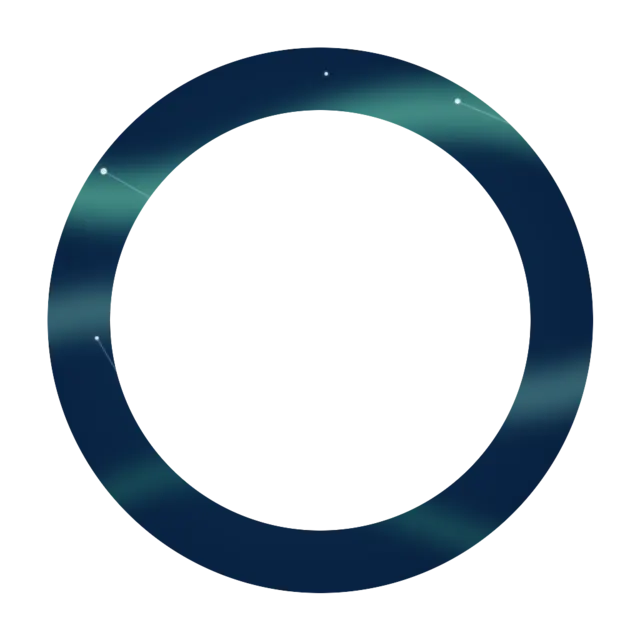
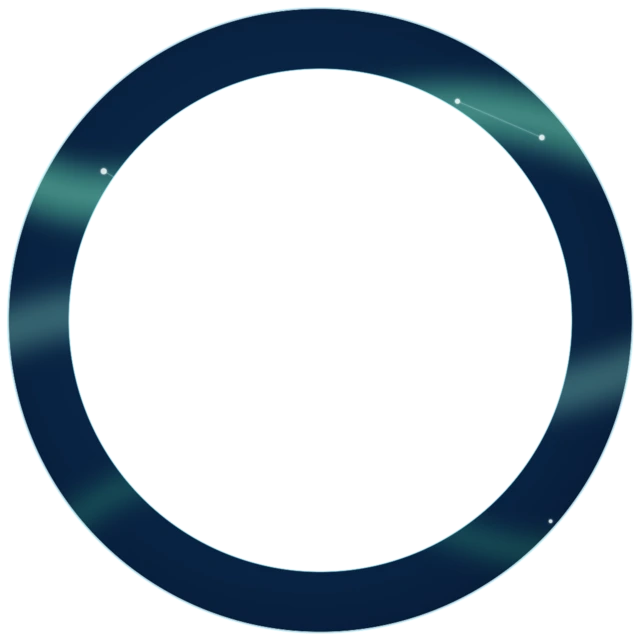
Add files via upload

diff --git a/src/styles.css b/src/styles.css
@@ -5767,3 +5767,22 @@ body.admin-page,.admin-page .app-shell{height:auto;min-height:100%;overflow:visi
 }
 .aurora-ring.locked img{filter:saturate(.96) contrast(1.06) brightness(.95) hue-rotate(2deg);}
 .aurora-ring.locked::before{opacity:.04;}
+
+/* Pass 7.22.0 — Aurora Apex ring scale + visibility correction */
+/* Keep all three designed rings legible from the opening state. Active is highlighted;
+   upcoming rings are not visually suppressed. */
+.aurora-ring{opacity:.96;}
+.aurora-ring img{opacity:1;filter:saturate(.98) contrast(1.06) brightness(.96);}
+.aurora-ring.tracking{
+  opacity:.90;
+  filter:drop-shadow(0 5px 8px rgba(0,2,8,.38));
+}
+.aurora-ring.tracking img{filter:saturate(.94) contrast(1.06) brightness(.90);}
+.aurora-ring.tracking::before{opacity:.018;}
+.aurora-ring.active{
+  opacity:1;
+  filter:drop-shadow(0 8px 10px rgba(0,2,8,.46)) drop-shadow(0 0 6px rgba(104,227,233,.13));
+}
+.aurora-ring.active img{filter:saturate(1.05) contrast(1.08) brightness(1.03);}
+.aurora-ring.locked{opacity:.96;}
+.aurora-ring.locked img{filter:saturate(1.00) contrast(1.06) brightness(.98) hue-rotate(2deg);}

diff --git a/index.html b/index.html
@@ -7,7 +7,7 @@
   <meta name="apple-mobile-web-app-capable" content="yes" />
   <meta name="apple-mobile-web-app-status-bar-style" content="black-translucent" />
   <link rel="manifest" href="./manifest.webmanifest" />
-  <link rel="stylesheet" href="./src/styles.css?v=7.21.0" />
+  <link rel="stylesheet" href="./src/styles.css?v=7.22.0" />
   <title>Silverstone Mission Control</title>
 </head>
 <body>
@@ -40,6 +40,6 @@
       }
     })();
   </script>
-  <script src="./src/main.js?v=7.21.0" defer></script>
+  <script src="./src/main.js?v=7.22.0" defer></script>
 </body>
 </html>

diff --git a/PRODUCTION-AUDIT.md b/PRODUCTION-AUDIT.md
@@ -1,4 +1,4 @@
-# Pass 7.21.0 — Production Audit
+# Pass 7.22.0 — Production Audit
 
 ## Result
 
@@ -6,22 +6,22 @@
 
 ## Production footprint
 
-- `dist/`: **7.968 MiB**
+- `dist/`: **7.989 MiB**
 - Production files: **50**
-- Versus Pass 7.20.0: **+19,245 bytes** (**+18.8 KiB**) with **no file-count change**.
-- The footprint increase comes from the three replacement Aurora ring WebPs; no duplicate assets were added.
+- Versus Pass 7.21.0: **+22,417 bytes** (**+21.9 KiB**) with **no file-count change**.
+- The increase comes only from the three corrected Aurora ring WebPs; no duplicate assets were added.
 - No WAV/source-master audio is deployed.
 - No test/temp files are deployed.
 - Runtime images remain WebP/SVG and fonts remain WOFF2.
 
 ## Aurora Apex verified
 
-- Current Aurora Apex gameplay, capture timing, Outer/Middle tap capture, Inner hold-to-brake control, mistimed overspin/RGB fault and completion sequence remain unchanged.
-- The dark minimal chamber/background introduced in Pass 7.20 remains intact.
-- `aurora-ring-outer.webp`, `aurora-ring-middle.webp` and `aurora-ring-inner.webp` were replaced with newly designed image-based ring assets that restore the preferred deep-blue/light-green aurora contrast and subtle celestial constellation detail.
-- The new ring artwork is cleaner and more realistic than the earliest versions: fewer stars, subtler line work, less illustrative clutter and more natural aurora flow.
-- Ring-state suppression was eased slightly so tracking rings still recede, but Middle and Inner remain visible enough for their artwork to read.
-- No HUD structure, copy, audio, routing or other mission behaviour was changed.
+- Pass 7.21 gameplay, timings, Outer/Middle capture, Inner hold-to-brake, mistimed overspin/RGB fault, centring and completion flow remain unchanged.
+- Outer, Middle and Inner ring WebPs were rebuilt with progressively thicker artwork proportions to match the apparent visual weight of the earlier successful ring set inside the existing 91% / 60% / 34% wrappers.
+- Excess transparent padding was removed so the designed rings fill their containers correctly and no longer look undersized.
+- Tracking rings are no longer heavily faded: all three rings remain clearly visible from the start, while the active ring is distinguished with only a modest brightness/saturation lift and the capture marker.
+- The dark minimal chamber/background and designed deep-blue/light-green aurora direction from Pass 7.21 remain unchanged.
+- No copy, HUD structure, audio, routing, radio or other mission behaviour changed.
 - Pass 7.11 Jingle Beams remains unchanged.
 
 ## Automated checks passed
@@ -43,7 +43,7 @@
 
 ## Non-blocking warnings
 
-1. **Deployment footprint:** 7.97 MB exceeds the 7 MB audit target, primarily because the full Lapland Launch music track remains intentionally retained.
+1. **Deployment footprint:** 7.99 MB exceeds the 7 MB audit target, primarily because the full Lapland Launch music track remains intentionally retained.
 2. **ELF FM stream:** current Radio Mast URL is still identified as a test stream and should be replaced when the production stream is supplied.
 3. **Web app manifest:** no install icon is defined; normal browser/QR use is unaffected.
 

diff --git a/CHANGELOG.md b/CHANGELOG.md
@@ -655,3 +655,13 @@ This pass adds a self-contained static build for Vercel. No Vercel project-setti
 - Relaxed the extreme active/tracking suppression slightly so Middle and Inner remain visible enough to read the designed artwork while Outer still leads clearly as the active ring.
 - No copy, HUD structure, audio, route or other mission behaviour was changed.
 - Bumped runtime asset version to 7.21.0.
+
+## Pass 7.22.0 — Aurora Apex ring scale + visibility correction
+
+- Kept Pass 7.21 gameplay, layout, background, mistimed desync feedback and overall designed-ring art direction unchanged.
+- Rebuilt all three ring WebPs with ring-band proportions matched to the earlier successful Aurora artwork so Outer, Middle and Inner retain comparable apparent presence when placed in their 91% / 60% / 34% concentric containers.
+- Removed the excessive internal transparent padding that made the Pass 7.21 rings appear undersized.
+- Restored full opening-state legibility: Middle and Inner now remain clearly visible from the beginning rather than being heavily faded while tracking.
+- Active ring remains identifiable through a modest brightness/saturation lift and capture marker, rather than by suppressing the other two rings.
+- No gameplay, timings, controls, HUD structure, copy, audio, route or radio behaviour changed.
+- Bumped runtime asset version to 7.22.0.
